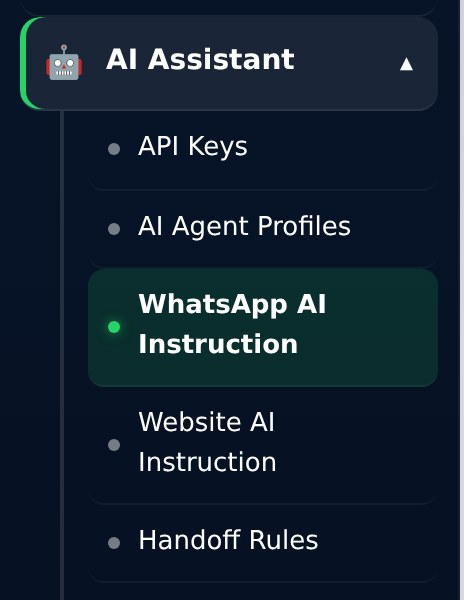
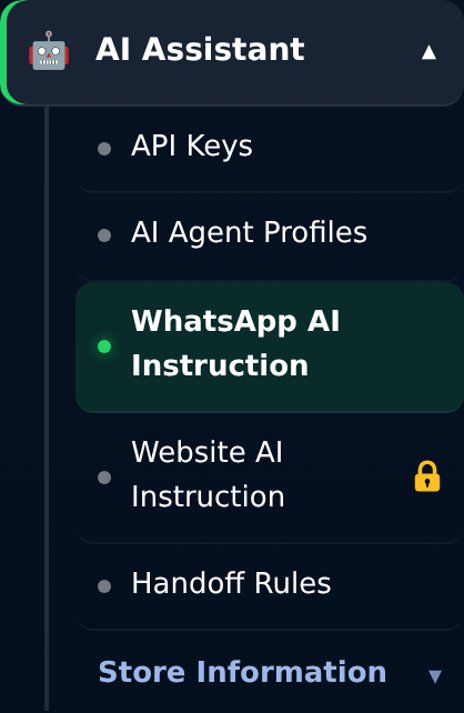
Manuals match the new side menu
- Social Media guide: Social Media now sits under Outreach; Analytics tip
  path updated.
- Calls page and email sequence page: menu paths now read
  "Outreach > Calls > Call Settings" and "Settings > Integration > ...".
- AI and CRM guides: menu pictures retaken with the new menu.

diff --git a/api-key-manager/templates/portal/help/social_guide.html b/api-key-manager/templates/portal/help/social_guide.html
@@ -172,7 +172,7 @@
   <li>If your key can see more than one Buffer organisation, press <span class="ui">Use this organisation</span> next to the right one.</li>
   <li>Under <span class="f">Choose where PhiXtra can post</span>, switch off any account you don't want PhiXtra to post to, then press <span class="ui">Save &amp; finish</span>.</li>
 </ol>
-<p>The <b>Social Media</b> menu now appears. PhiXtra keeps the key locked (encrypted) and only ever shows its last 4 characters.</p>
+<p><b>Social Media</b> now appears in the side menu, under <b>Outreach</b>. PhiXtra keeps the key locked (encrypted) and only ever shows its last 4 characters.</p>
 
 <h3>The connected page</h3>
 <div class="tbl"><table>
@@ -632,7 +632,7 @@
 
 <div class="recipe"><h4>See what worked last month</h4>
 <ol>
-  <li>Analytics › pick last month.</li>
+  <li>Outreach › Social Media › Analytics › pick last month.</li>
   <li>Compare each account's average engagement rate, then sort the post table by eye for the posts with the most reach and comments.</li>
   <li>Make more posts like those. Use 👍 on designs like them so the AI learns.</li>
 </ol></div>

diff --git a/api-key-manager/templates/portal/email_sequence.html b/api-key-manager/templates/portal/email_sequence.html
@@ -188,7 +188,7 @@
 
 {% if reply_unwatched %}
 <div class="sq-warn">↩ Replies to this sequence go to <strong>{{ reply_unwatched }}</strong>, but that mailbox isn't connected to the portal, so <strong>replies won't show here</strong> and people who reply keep getting the next email.
-  {% if staff_can_open('mailbox.page') %}<a href="{{ url_for('mailbox.page') }}" style="font-weight:700;color:#9a3412">Connect it now →</a> (sign in as {{ reply_unwatched }}).{% else %}Ask your IT admin or the business owner to connect it under Integration › Microsoft 365 (Outlook).{% endif %}
+  {% if staff_can_open('mailbox.page') %}<a href="{{ url_for('mailbox.page') }}" style="font-weight:700;color:#9a3412">Connect it now →</a> (sign in as {{ reply_unwatched }}).{% else %}Ask your IT admin or the business owner to connect it under Settings › Integration › Microsoft 365 (Outlook).{% endif %}
 </div>
 {% endif %}
 {% if not sender %}

diff --git a/api-key-manager/templates/portal/calls.html b/api-key-manager/templates/portal/calls.html
@@ -48,7 +48,7 @@
 
 {% if not any_on %}
 <div class="cl-warn">Calls aren't switched on for any of your WhatsApp numbers yet, so customers can't call you.
-  {% if can_settings and numbers %}Open <a href="{{ url_for('calls.calls_settings_index') }}">Calls › Call Settings</a> to switch them on.{% else %}Ask the owner or IT to switch them on.{% endif %}</div>
+  {% if can_settings and numbers %}Open <a href="{{ url_for('calls.calls_settings_index') }}">Outreach › Calls › Call Settings</a> to switch them on.{% else %}Ask the owner or IT to switch them on.{% endif %}</div>
 {% endif %}
 
 <div class="cl-kpis">
